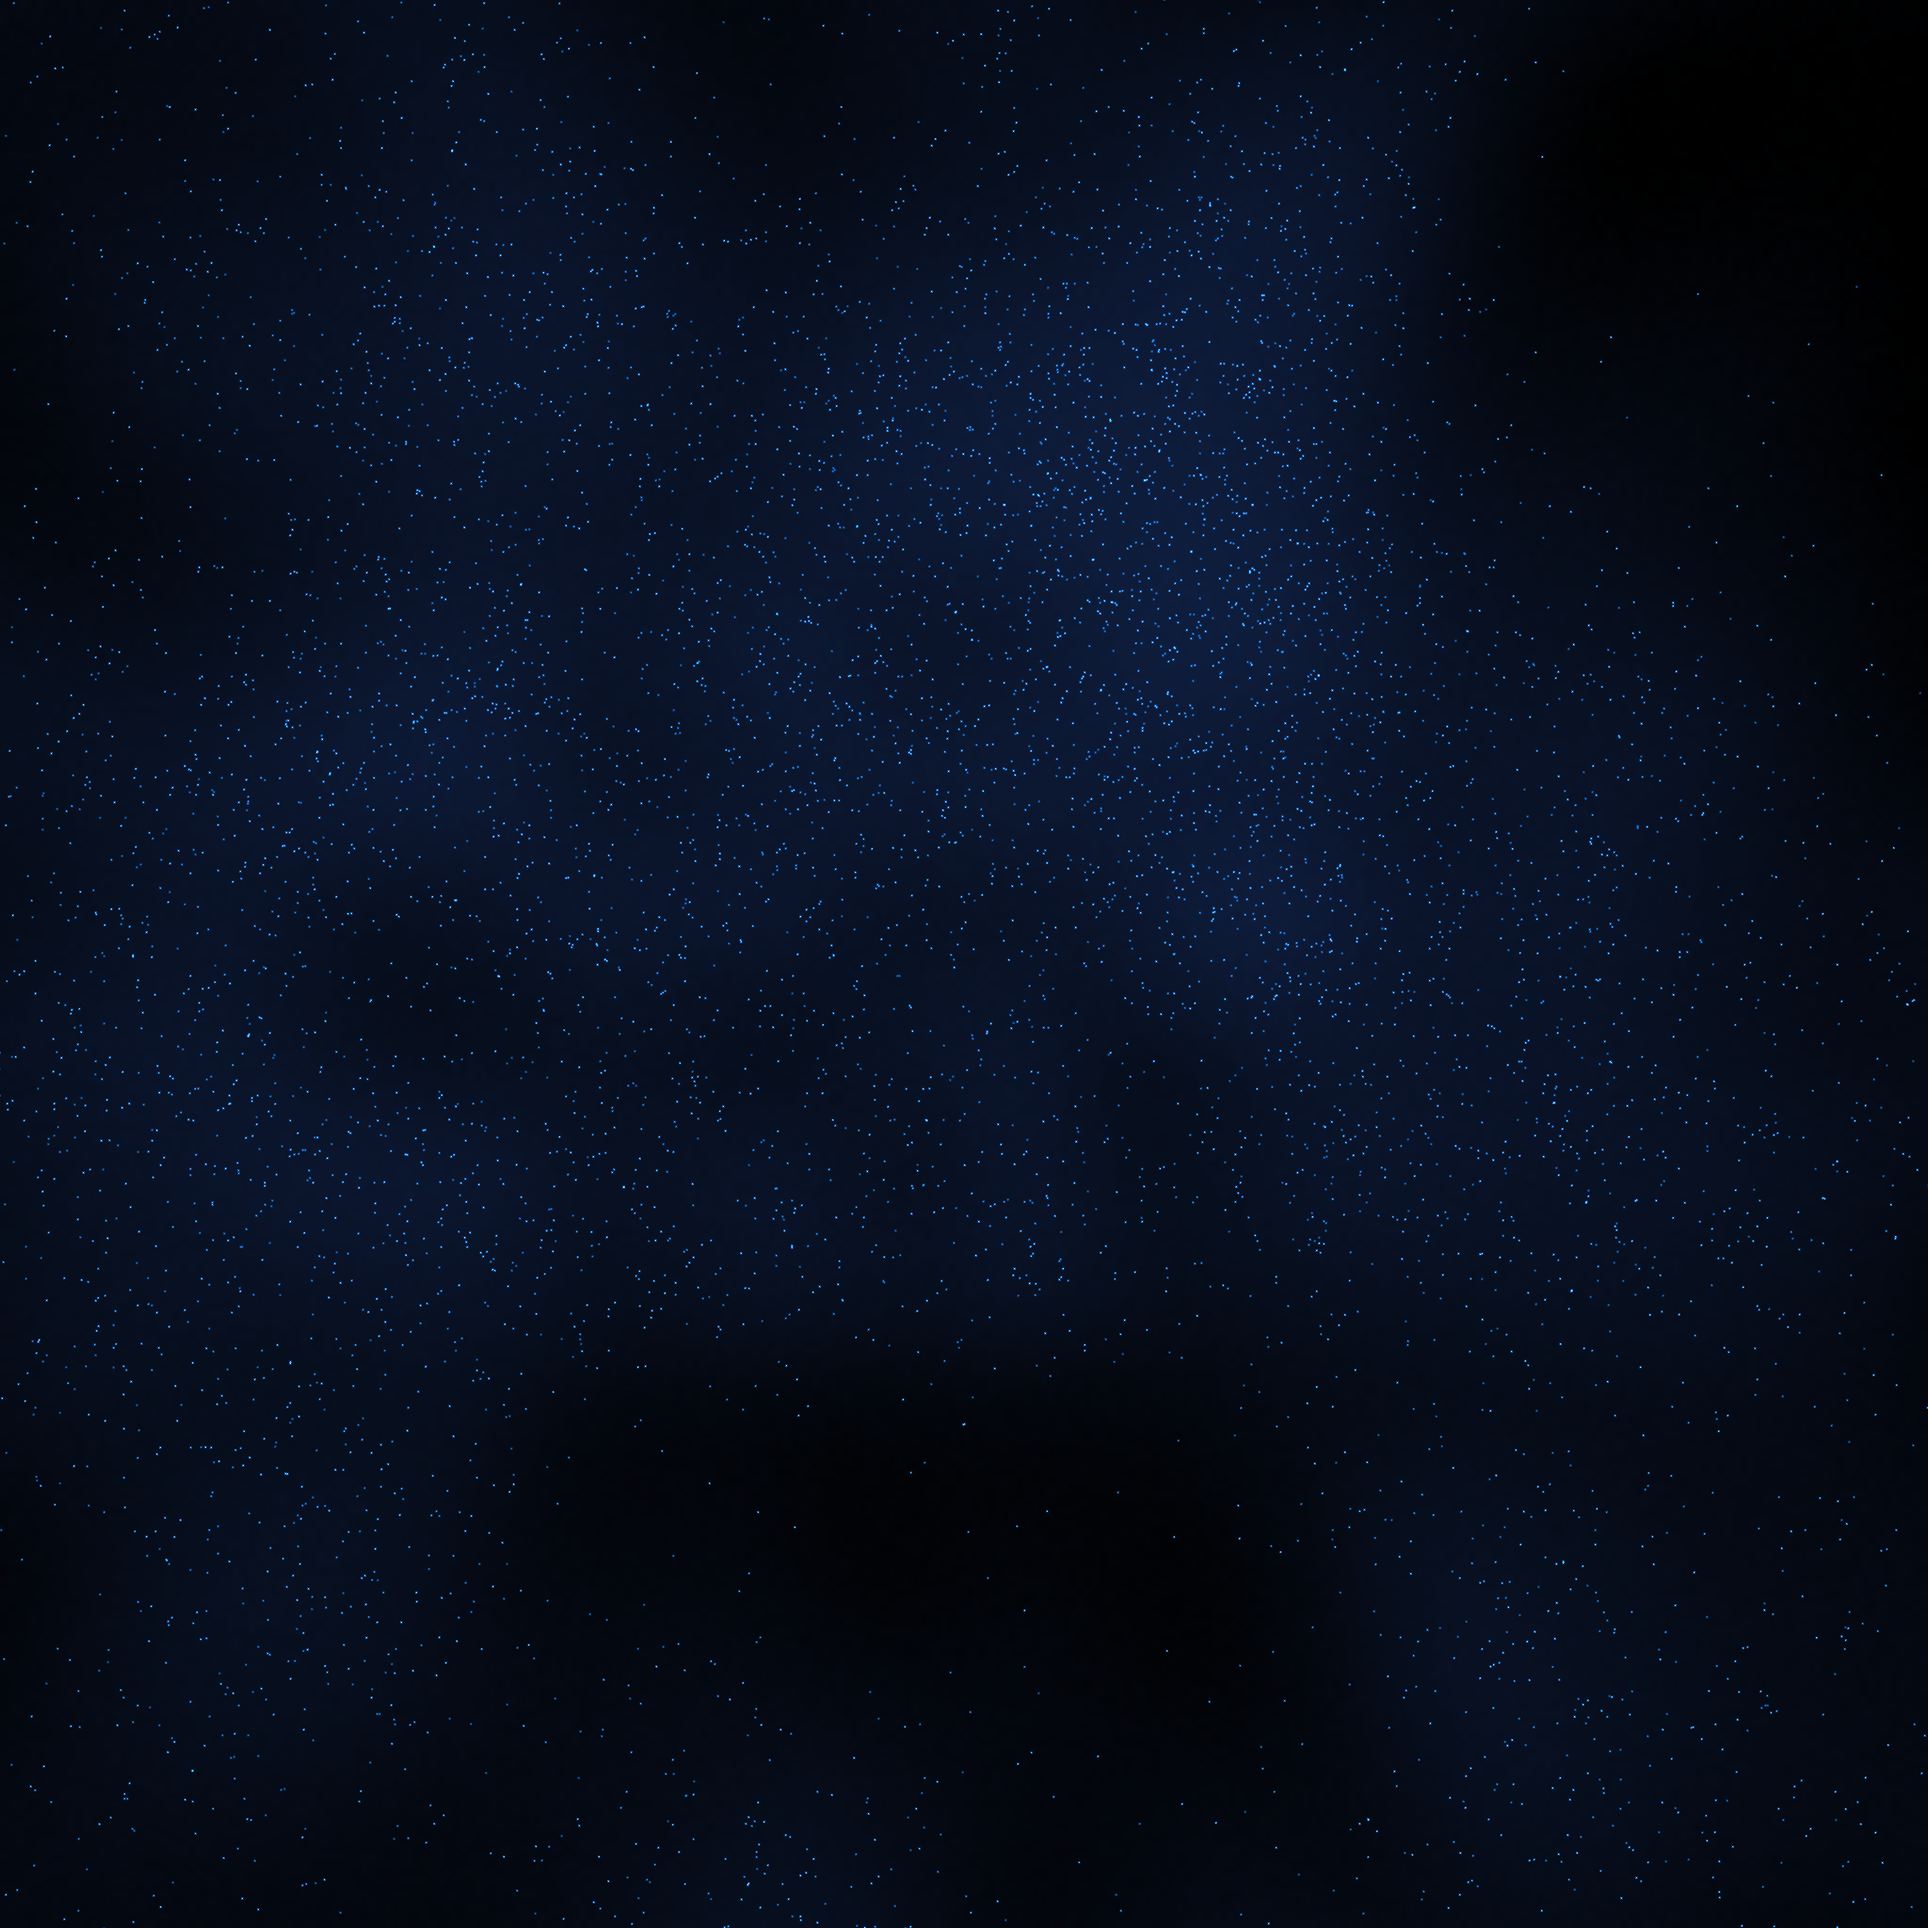
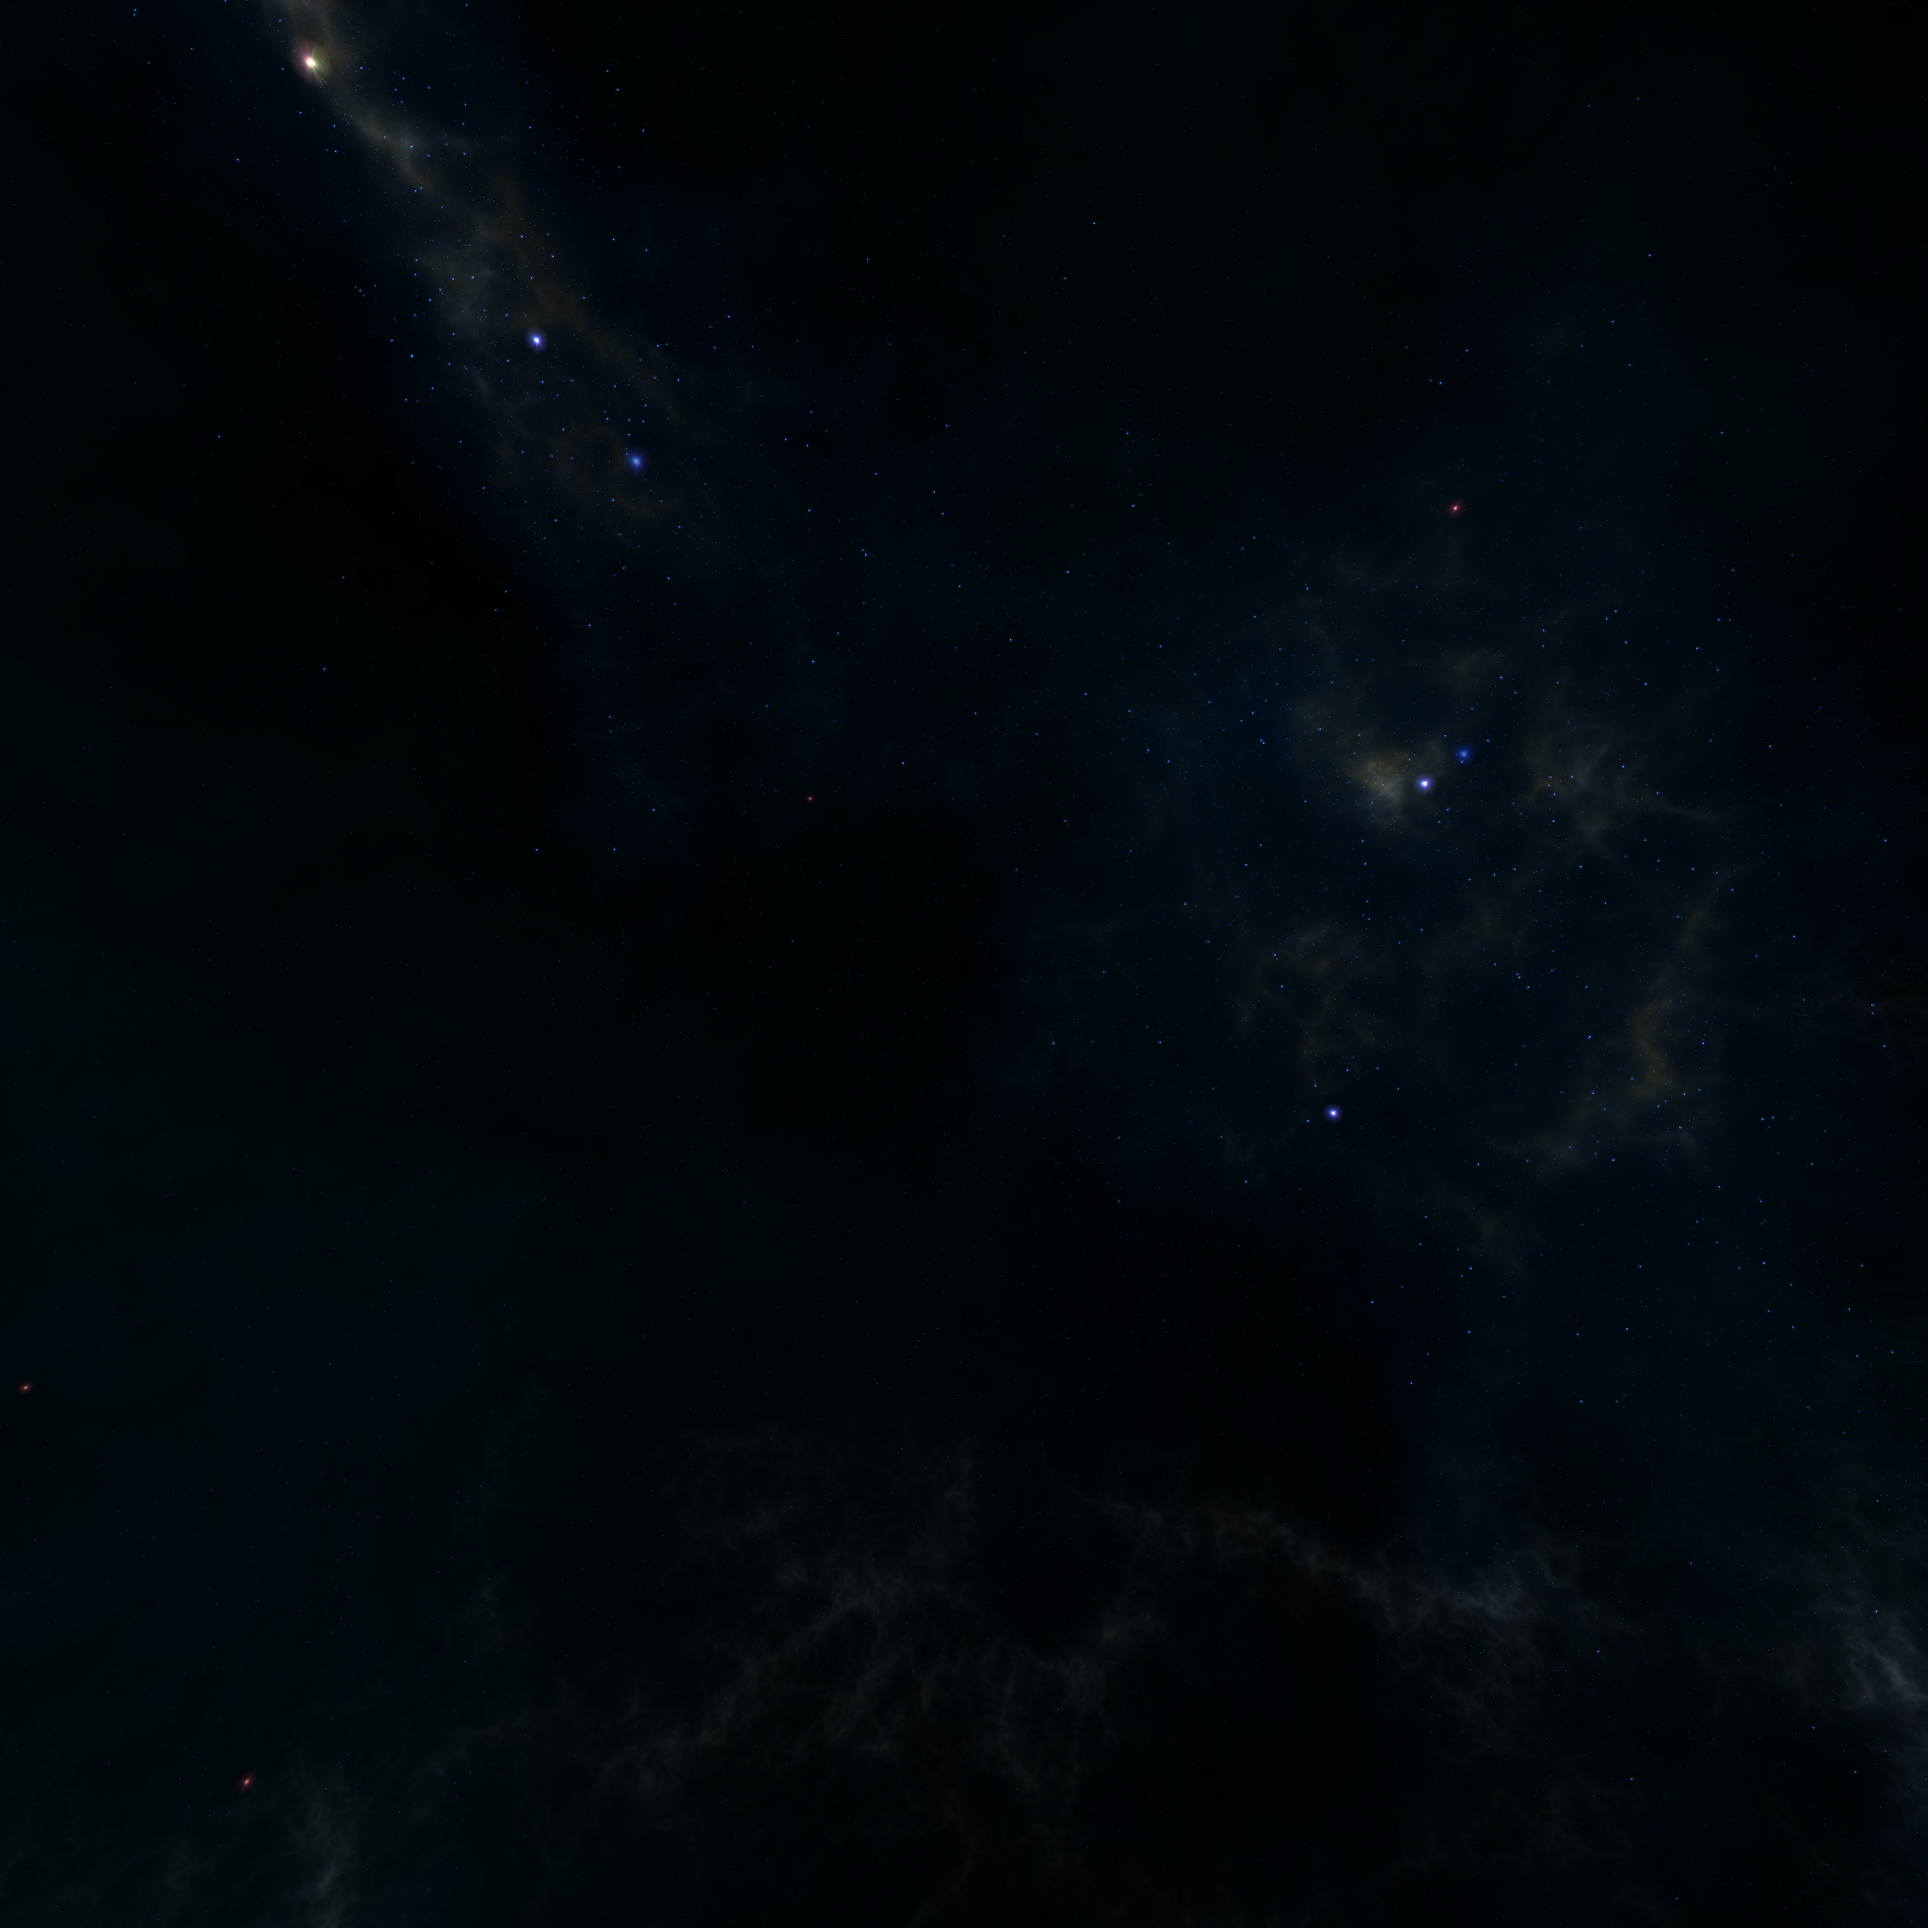
Fixed lack of teapots. Also made milkyway-like skybox texture.

diff --git a/Game/TestGameWorld.cpp b/Game/TestGameWorld.cpp
@@ -1,14 +1,21 @@
 #include "TestGameWorld.h"
 #include "GameEngine.h"
 #include "GraphicsEngine.h"
-#include "FontSystem.h"
+#include "TeapotGraphicsComponent.h"
+#include "BuildingGraphicsComponent.h"
 
 #define MESH_COLUMNS   100
 #define MESH_ROWS      100
 #define MESH_CELL_SIZE 10
 
 TestGameWorld::TestGameWorld( void )
+    : obstacleGraphicsComponent(new TeapotGraphicsComponent())
 {
+}
+
+TestGameWorld::~TestGameWorld( void )
+{
+    delete obstacleGraphicsComponent;
 }
 
 void TestGameWorld::init( GameEngine &gameEngine )
@@ -19,7 +26,7 @@ void TestGameWorld::init( GameEngine &gameEngine )
     initObstacles(gameEngine);
 
     plane.setCamera(camera);
-    gameEngine.getGraphicsEngine().setBackgroundColor(D3DCOLOR_XRGB(85,85,255));
+    gameEngine.getGraphicsEngine().setBackgroundColor(D3DCOLOR_XRGB(0, 6, 8));
     gameEngine.getGraphicsEngine().enableFog(camera.getFarPlane() - 1000.0f, camera.getFarPlane());   
 }
 
@@ -65,10 +72,10 @@ void TestGameWorld::initCamera( GameEngine &gameEngine )
 
 void TestGameWorld::initObstacles( GameEngine &gameEngine )
 {
-    buildingGraphicsComponent.init(gameEngine.getGraphicsEngine());
+    obstacleGraphicsComponent->init(gameEngine.getGraphicsEngine());
 
-    float yMin = 10.0f;
-    float yMax = 100.0f;
+    float yMin = -1000.0f;
+    float yMax = 1000.0f;
     float scaleMin = 20.0f;
     float scaleMax = 70.0f;
     float cubeCreationProbablility = 0.98f;
@@ -87,13 +94,13 @@ void TestGameWorld::initObstacles( GameEngine &gameEngine )
 
                 D3DXVECTOR3 position(xPosition, yPosition, zPosition);
 
-                Cube *cube = new Cube;
-                cube->setPosition(position);
-                cube->setScale(scale, scale*10.0f, scale);
-                cube->init(NULL, NULL, &buildingGraphicsComponent);
-                
-                obstacles.push_back(cube);
-                addGameObject(cube);
+                Obstacle *obstacle = new Obstacle;
+                obstacle->setPosition(position);
+                obstacle->setScale(scale, scale, scale);
+                obstacle->init(NULL, NULL, obstacleGraphicsComponent);
+
+                obstacles.push_back(obstacle);
+                addGameObject(obstacle);
             }
         }
     }

diff --git a/Game/BuildingGraphicsComponent.cpp b/Game/BuildingGraphicsComponent.cpp
@@ -6,14 +6,14 @@ void BuildingGraphicsComponent::initVertexBuffer( GraphicsEngine &graphicsEngine
     DWORD grey     = D3DCOLOR_XRGB(40,40,40);
     DWORD light    = D3DCOLOR_XRGB(200,215,215);
     CustomVertex vertices[] = {
-        { D3DXVECTOR3(-1.0f,  1.0f, -1.0f), light, },
-        { D3DXVECTOR3( 1.0f,  1.0f, -1.0f), grey, },
-        { D3DXVECTOR3(-1.0f, -1.0f, -1.0f), grey, },
-        { D3DXVECTOR3( 1.0f, -1.0f, -1.0f), grey, },
-        { D3DXVECTOR3(-1.0f,  1.0f,  1.0f), darkGrey, },
-        { D3DXVECTOR3( 1.0f,  1.0f,  1.0f), darkGrey, },
-        { D3DXVECTOR3(-1.0f, -1.0f,  1.0f), grey, },
-        { D3DXVECTOR3( 1.0f, -1.0f,  1.0f), grey, },
+        { D3DXVECTOR3(-1.0f,  10.0f, -1.0f), darkGrey, },
+        { D3DXVECTOR3( 1.0f,  10.0f, -1.0f), grey, },
+        { D3DXVECTOR3(-1.0f, -10.0f, -1.0f), grey, },
+        { D3DXVECTOR3( 1.0f, -10.0f, -1.0f), grey, },
+        { D3DXVECTOR3(-1.0f,  10.0f,  1.0f), grey, },
+        { D3DXVECTOR3( 1.0f,  10.0f,  1.0f), light, },
+        { D3DXVECTOR3(-1.0f, -10.0f,  1.0f), grey, },
+        { D3DXVECTOR3( 1.0f, -10.0f,  1.0f), grey, },
     };
 
     // create a vertex buffer interface called v_buffer
@@ -24,8 +24,7 @@ void BuildingGraphicsComponent::initVertexBuffer( GraphicsEngine &graphicsEngine
         &this->vertexBuffer,
         NULL);
 
-    VOID* pVoid;    // a void pointer
-
+    void* pVoid;    // a void pointer
     // lock v_buffer and load the vertices into it
     vertexBuffer->Lock(0, 0, static_cast<void**>(&pVoid), 0);
     memcpy(pVoid, vertices, sizeof(vertices));

diff --git a/Game/TeapotGraphicsComponent.cpp b/Game/TeapotGraphicsComponent.cpp
@@ -1,0 +1,44 @@
+#include "TeapotGraphicsComponent.h"
+#include "Obstacle.h"
+
+TeapotGraphicsComponent::TeapotGraphicsComponent(void)
+    : teapot(NULL)
+{
+}
+
+
+TeapotGraphicsComponent::~TeapotGraphicsComponent(void)
+{
+    if (teapot != NULL) {
+        teapot->Release();
+    }
+}
+
+void TeapotGraphicsComponent::init( GraphicsEngine &graphicsEngine )
+{
+    D3DXCreateTeapot(graphicsEngine.getDirect3DDevice(), &teapot, NULL);
+}
+
+void TeapotGraphicsComponent::draw( GameObject &gameObject, GraphicsEngine &graphicsEngine )
+{
+    Obstacle *obstacle = dynamic_cast<Obstacle*>(&gameObject);
+    
+    if (obstacle == NULL) {
+        throw "This component only works with obstacles!";
+    }
+
+    D3DXVECTOR3 position = obstacle->getPosition();
+    D3DXVECTOR3 scale = obstacle->getScale();
+    
+    D3DXMATRIX worldMatrix, matScale, matTranslate, matRotate;
+
+    D3DXMatrixScaling(&matScale, scale.x, scale.y, scale.z);
+    worldMatrix = matScale;
+
+    D3DXMatrixTranslation(&matTranslate, position.x, position.y, position.z);
+    worldMatrix *= matTranslate;
+
+    graphicsEngine.getDirect3DDevice()->SetTransform(D3DTS_WORLD, &worldMatrix);
+
+    teapot->DrawSubset(0);
+}

diff --git a/Game/TestGameWorld.h b/Game/TestGameWorld.h
@@ -7,8 +7,7 @@
 #include "MeshSurfaceGraphicsComponent.h"
 #include "Plane.h"
 #include "PlaneInputComponent.h"
-#include "Cube.h"
-#include "BuildingGraphicsComponent.h"
+#include "Obstacle.h"
 
 using std::vector;
 
@@ -17,6 +16,7 @@ class TestGameWorld :
 {
 public:
     TestGameWorld(void);
+    ~TestGameWorld(void);
 
     void init(GameEngine &gameEngine);
     void update(time_t time);
@@ -27,12 +27,11 @@ private:
     Plane plane;
     MeshSurfaceGraphicsComponent meshSurfaceGraphicsComponent;
     PlaneInputComponent planeInputComponent;
+    GraphicsComponent *obstacleGraphicsComponent;
+    vector<Obstacle*> obstacles;
 
     void initCamera(GameEngine &gameEngine);
     void initPlane(GameEngine &gameEngine);
     void initMesh(GameEngine &gameEngine);
     void initObstacles(GameEngine &gameEngine);
-
-    BuildingGraphicsComponent buildingGraphicsComponent;
-    vector<Cube*> obstacles;
 };

diff --git a/Game/Obstacle.cpp b/Game/Obstacle.cpp
@@ -1,33 +1,33 @@
-#include "Cube.h"
+#include "Obstacle.h"
 
-Cube::Cube(void)
+Obstacle::Obstacle(void)
     : position(0.0f, 0.0f, 0.0f)
     , scale(1.0f, 1.0f, 1.0f)
     , GameObject()
 {
 }
 
-D3DXVECTOR3 Cube::getPosition()
+D3DXVECTOR3 Obstacle::getPosition()
 {
     return position;
 }
 
-D3DXVECTOR3 Cube::getScale()
+D3DXVECTOR3 Obstacle::getScale()
 {
     return scale;
 }
 
-void Cube::setPosition( D3DXVECTOR3 position )
+void Obstacle::setPosition( D3DXVECTOR3 position )
 {
     this->position = position;
 }
 
-void Cube::setScale( D3DXVECTOR3 scale )
+void Obstacle::setScale( D3DXVECTOR3 scale )
 {
     this->scale = scale;
 }
 
-void Cube::setScale( float x, float y, float z )
+void Obstacle::setScale( float x, float y, float z )
 {
     this->scale.x = x;
     this->scale.y = y;

diff --git a/Game/CubeGraphicsComponent.cpp b/Game/CubeGraphicsComponent.cpp
@@ -79,14 +79,14 @@ void CubeGraphicsComponent::draw( GameObject &gameObject, GraphicsEngine &graphi
 
 void CubeGraphicsComponent::performWorldTransformations( GameObject &gameObject, GraphicsEngine &graphicsEngine )
 {
-    Cube *cube = dynamic_cast<Cube*>(&gameObject);
+    Obstacle *obstacle = dynamic_cast<Obstacle*>(&gameObject);
 
-    if (cube == NULL) {
+    if (obstacle == NULL) {
         throw "Can't draw game object with this component.";
     }
 
-    D3DXVECTOR3 position = cube->getPosition();
-    D3DXVECTOR3 scale = cube->getScale();
+    D3DXVECTOR3 position = obstacle->getPosition();
+    D3DXVECTOR3 scale = obstacle->getScale();
 
     D3DXMATRIX worldMatrix, matScale, matTranslate, matRotate;
 

diff --git a/Game/GraphicsEngine.cpp b/Game/GraphicsEngine.cpp
@@ -91,13 +91,13 @@ void GraphicsEngine::initRenderStates()
     direct3DDevice->SetRenderState(D3DRS_DESTBLEND, D3DBLEND_INVSRCALPHA);
     direct3DDevice->SetRenderState(D3DRS_ZENABLE, true);
     
-    // direct3DDevice->SetRenderState(D3DRS_ANTIALIASEDLINEENABLE , TRUE);
+    direct3DDevice->SetRenderState(D3DRS_ANTIALIASEDLINEENABLE , TRUE);
 }
 
 void GraphicsEngine::initSamplerStates()
 {
     direct3DDevice->SetSamplerState(0, D3DSAMP_MINFILTER, D3DTEXF_ANISOTROPIC);
-    direct3DDevice->SetSamplerState(0, D3DSAMP_MAGFILTER, D3DTEXF_ANISOTROPIC);
+    direct3DDevice->SetSamplerState(0, D3DSAMP_MAGFILTER, D3DTEXF_POINT);
     direct3DDevice->SetSamplerState(0, D3DSAMP_MIPFILTER, D3DTEXF_ANISOTROPIC);
 }
 

diff --git a/Game/TeapotGraphicsComponent.h b/Game/TeapotGraphicsComponent.h
@@ -1,0 +1,18 @@
+#pragma once
+
+#include "GraphicsComponent.h"
+
+class TeapotGraphicsComponent
+    : public GraphicsComponent
+{
+public:
+    TeapotGraphicsComponent(void);
+    ~TeapotGraphicsComponent(void);
+
+    virtual void init(GraphicsEngine &graphicsEngine);
+    virtual void draw(GameObject &gameObject, GraphicsEngine &graphicsEngine);
+
+protected:
+    LPD3DXMESH teapot;
+};
+

diff --git a/Game/Obstacle.h b/Game/Obstacle.h
@@ -2,11 +2,11 @@
 
 #include "GameObject.h"
 
-class Cube
+class Obstacle
     : public GameObject
 {
 public:
-    Cube(void);
+    Obstacle(void);
 
     D3DXVECTOR3 getPosition();
     D3DXVECTOR3 getScale();

diff --git a/Game/Plane.cpp b/Game/Plane.cpp
@@ -1,6 +1,6 @@
 #include "Plane.h"
 #include "PlaneInputComponent.h"
-#include "Cube.h"
+#include "Obstacle.h"
 #include "CubeGraphicsComponent.h"
 
 Plane::Plane(void)

diff --git a/Game/CubeGraphicsComponent.h b/Game/CubeGraphicsComponent.h
@@ -3,7 +3,7 @@
 #include <d3dx9.h>
 #include <vector>
 #include "GraphicsComponent.h"
-#include "Cube.h"
+#include "Obstacle.h"
 
 using std::vector;
 
